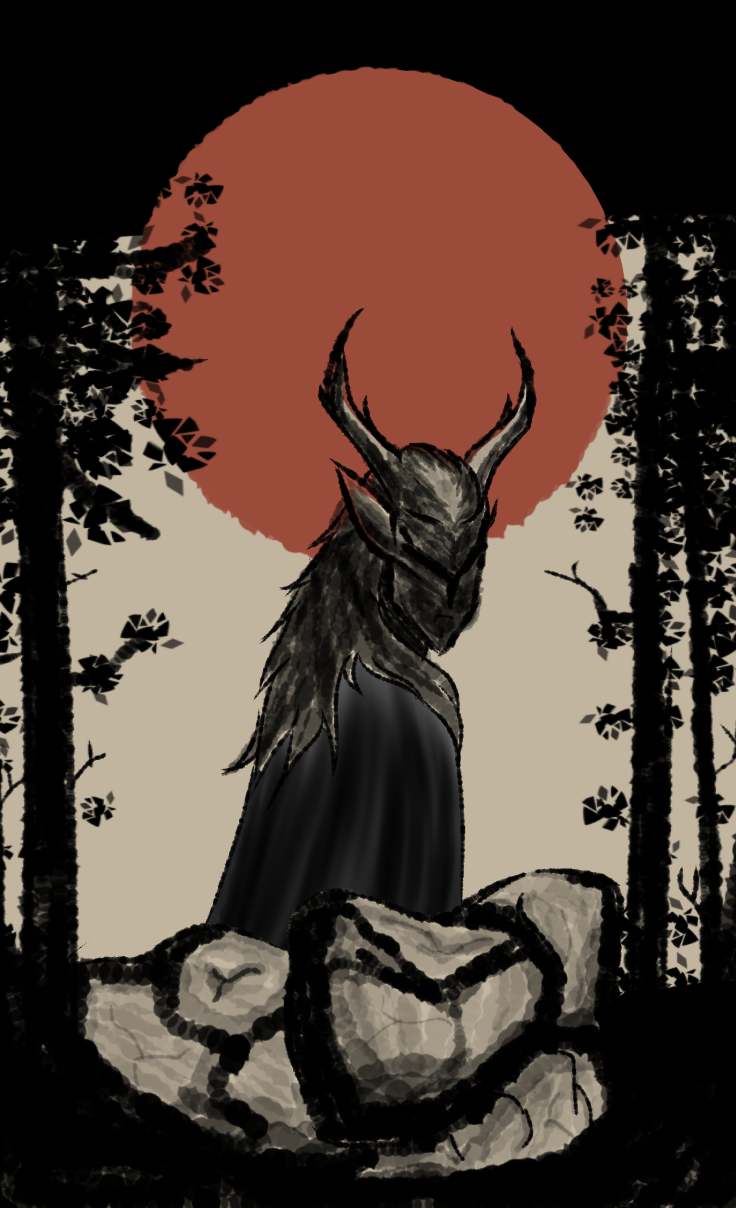
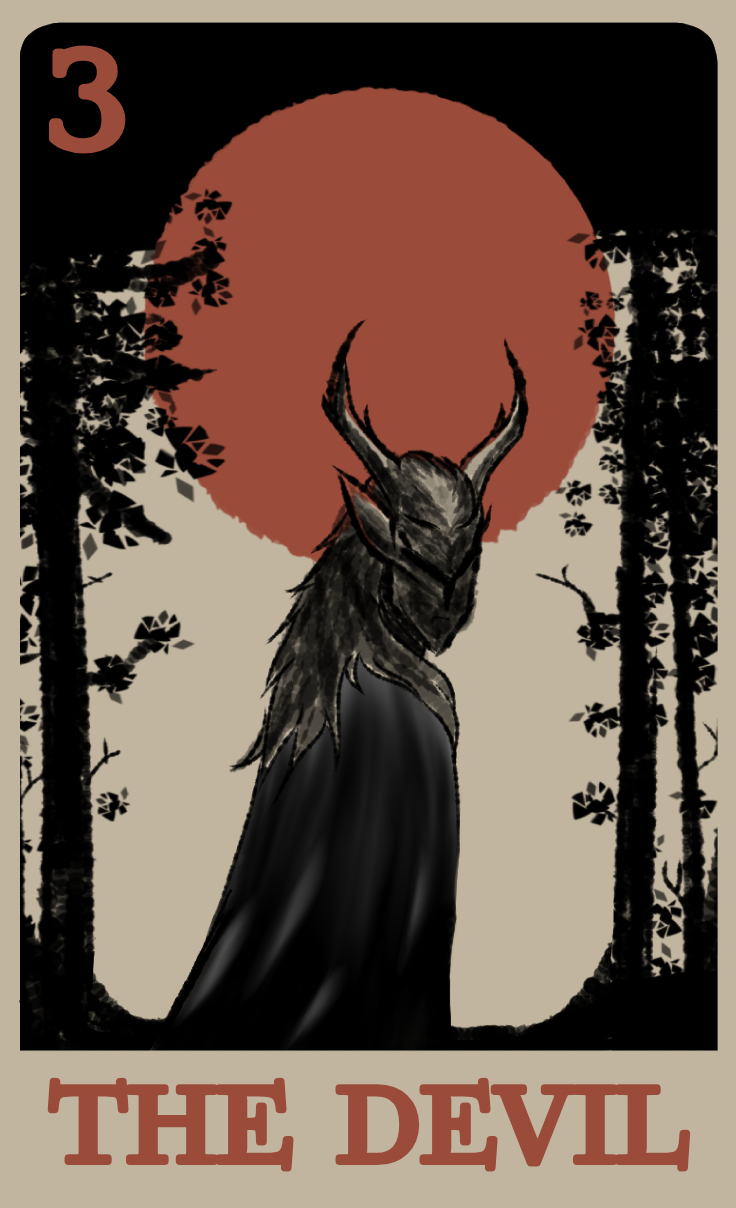
removed card placeholder, added 3 og card

diff --git a/PreparationPhase.java b/PreparationPhase.java
@@ -57,8 +57,8 @@ public class PreparationPhase {
                 // e.g. g.drawImage(instantiateCards.starCard.getImage(), , , , )
                 // i dont want that
 
-                Image starImg = new ImageIcon(getClass().getResource("assets/devil.jpg")).getImage();
-                Image towerImg = new ImageIcon(getClass().getResource("assets/tower.jpg")).getImage();
+                Image starImg = new ImageIcon(getClass().getResource("assets/star.png")).getImage();
+                Image towerImg = new ImageIcon(getClass().getResource("assets/tower.png")).getImage();
                 Image devilImg = new ImageIcon(getClass().getResource("assets/devil.png")).getImage();
 
                 // TANAN CARS, SAME X, MAG DIFFER NA DIDTO SA ARRAY NGA ONHAND-CARDS NI PLAYER
